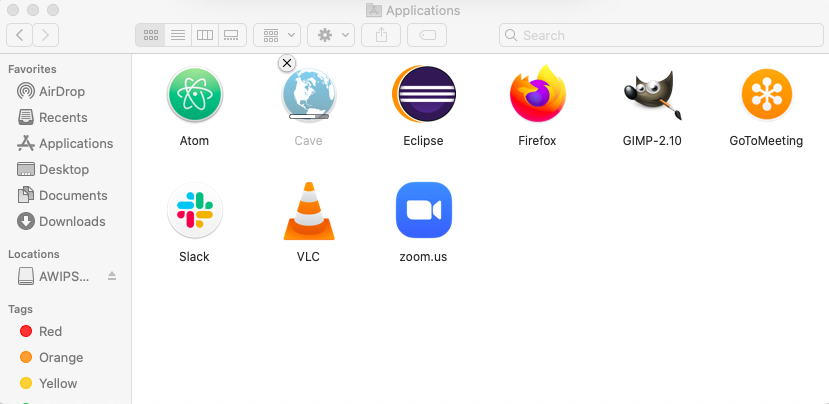
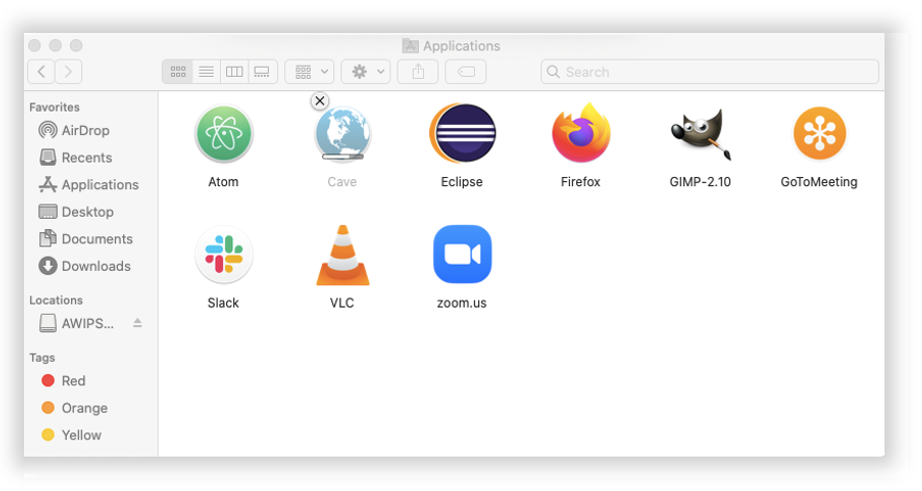
Small updates for 18.2.1 cave (mac) instructions: - updated images to remove version number from them - updated caveMacUserInstall.png to have a border and look a bit more consitent - added note and image about running CAVE the first time prompts for permission because it was downloaded from the int

diff --git a/docs/install/install-cave.md b/docs/install/install-cave.md
@@ -171,12 +171,11 @@ To run CAVE, either:
 1. Download and install: [**awips-cave.dmg** <i class="fa fa-download"></i>](https://www.unidata.ucar.edu/downloads/awips2/awips-cave.dmg)
     - Either use the default location, which is in the system-wide "Applications" directory, by clicking and dragging the CAVE icon into the Applications folder, in the window that pops up when installing:
     
-        ![Cave System Install](../images/caveMacSystemInstall.png)
+        ![Cave System Install](../images/mac-install.png)
     
     - Or open a new Finder window to your \[user home\]/Applications/ directory (if it doesn't exist, simply create a new folder with the name "Applications"), and drag the CAVE icon into that folder:
     ![Cave User Install](../images/caveMacUserInstall.png)
     - This will install CAVE as an application and set the local cache to `~/Library/caveData`
-
 
 ### Run CAVE
 
@@ -184,6 +183,9 @@ To run CAVE either:
 
 - Use the System Menu Go > Applications > CAVE
 - Type &#8984; + Spacebar and then type "cave", the application should appear and you can hit **enter** to run it
+
+!!! note "The first time CAVE is opened, it will ask you if you are sure you want to run it, because it was downloaded from the internet and not the Apple Store.  This is normal, and hit Open.  Your message my differ slightly but should look like the image below:"
+![internet warning](../images/mac-cave-internet-download.png)
 
 ---
 
